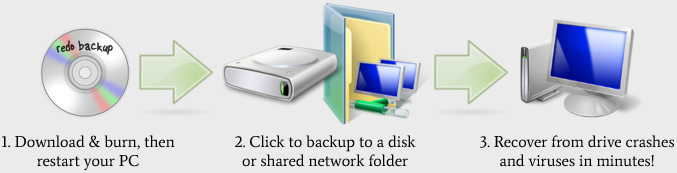
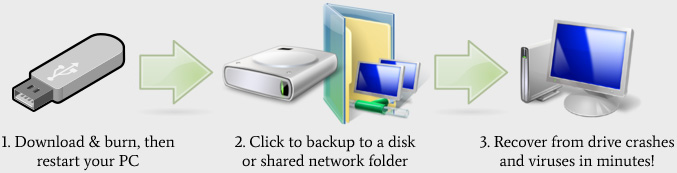
Replaces CD images with USB drives
Replaces the CD image on the introduction banner and download page with a
public domain USB drive image from [1].

[1] https://publicdomainvectors.org/en/free-clipart/USB-thumb-drive-2-vector-drawing/13543.html

Changed region(s): [[0.0, 0.1445, 0.2171, 0.6936]]

diff --git a/download.html b/download.html
@@ -39,7 +39,7 @@
 <h2>If you like Redo, check this out!</h2>
 <p>We've finally released&nbsp;OpenDynamo, our PHP-based project for backing up, restoring, and installing new websites over at <a target="_blank" href="http://opendynamo.org">OpenDynamo.org</a> which allows anyone to create a new open source website in just a few clicks. It's kind of like having Redo Backup for your website!</p>
 </div></div>
-<h1><img width="128" height="128" align="right" src="./media/icons/cd.png" style="margin: 0px 0px 10px 10px;" alt="" />Get Redo Backup</h1>
+<h1><img width="128" height="128" align="right" src="./media/icons/usb.png" style="margin: 0px 0px 10px 10px;" alt="" />Get Redo Backup</h1>
 <p><strong>We need feedback! If you like it, please consider giving the project a &quot;thumbs up&quot; on SourceForge.</strong> If you find a problem, please go <a href="https://sourceforge.net/p/redobackup/tickets/" rel="nofollow">here</a> to tell us how we can improve Redo Backup. It is a <a href="http://en.wikipedia.org/wiki/Live_cd" target="_blank" rel="nofollow">live CD</a>,  so you cannot run the program from within Windows or any other operating  system; you need to follow the steps below exactly as they are presented in order to use Redo Backup.<strong><br />
 </strong></p>
 <h2><strong>Getting Started</strong></h2>
